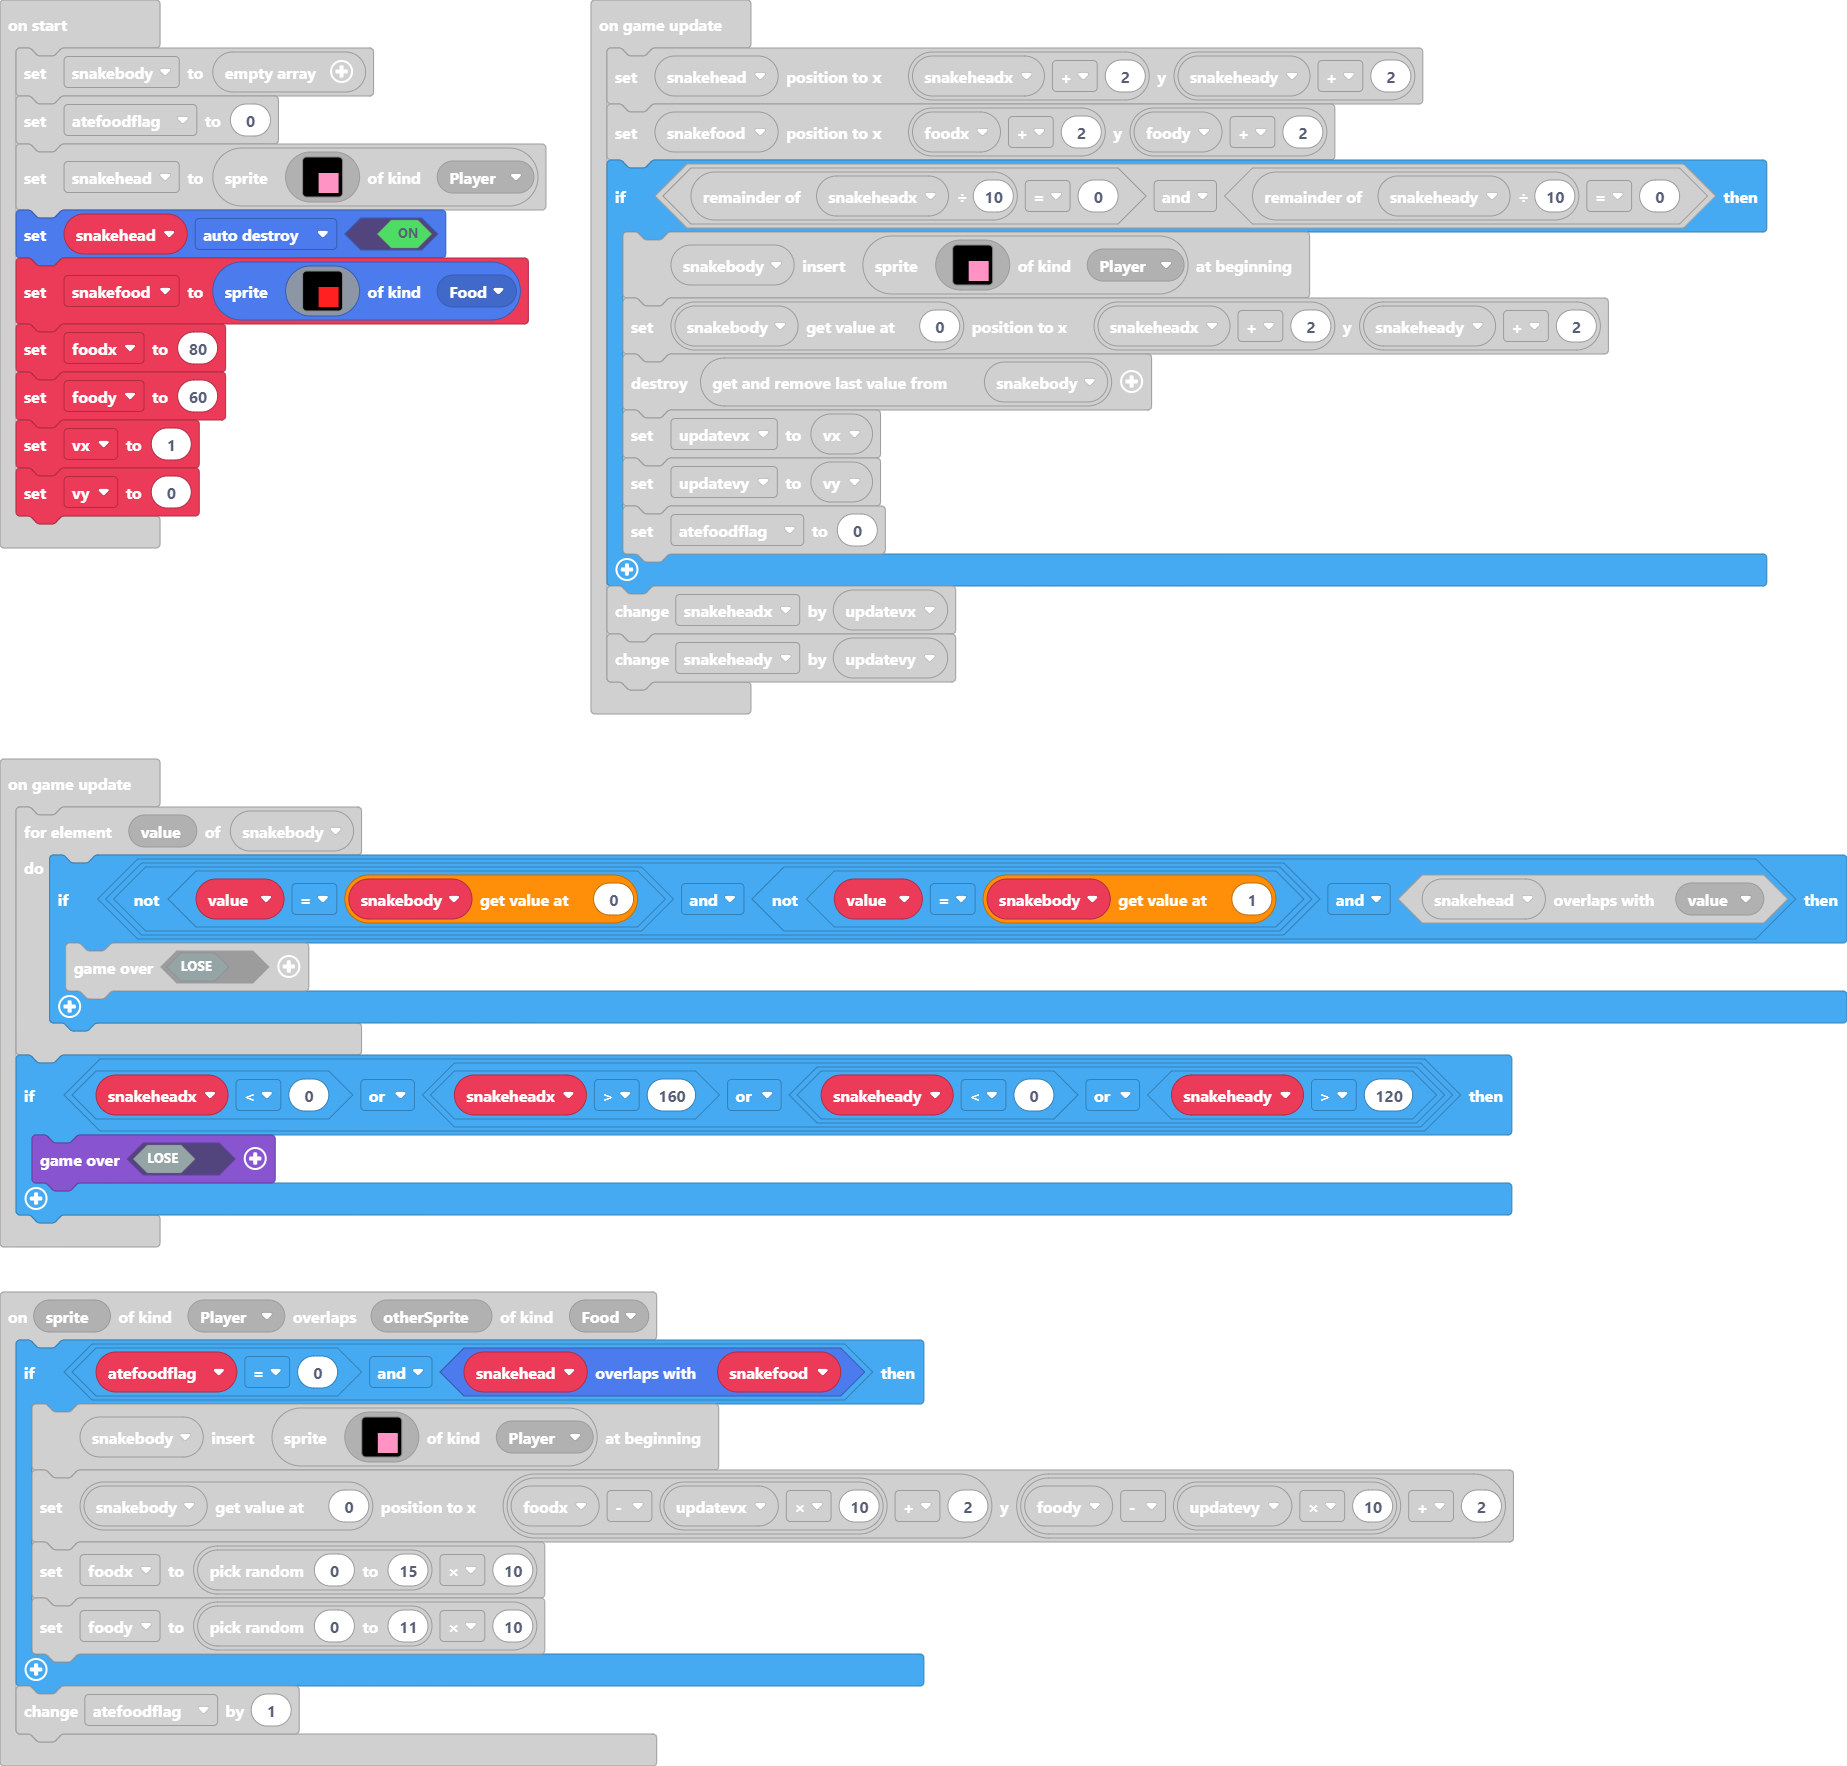
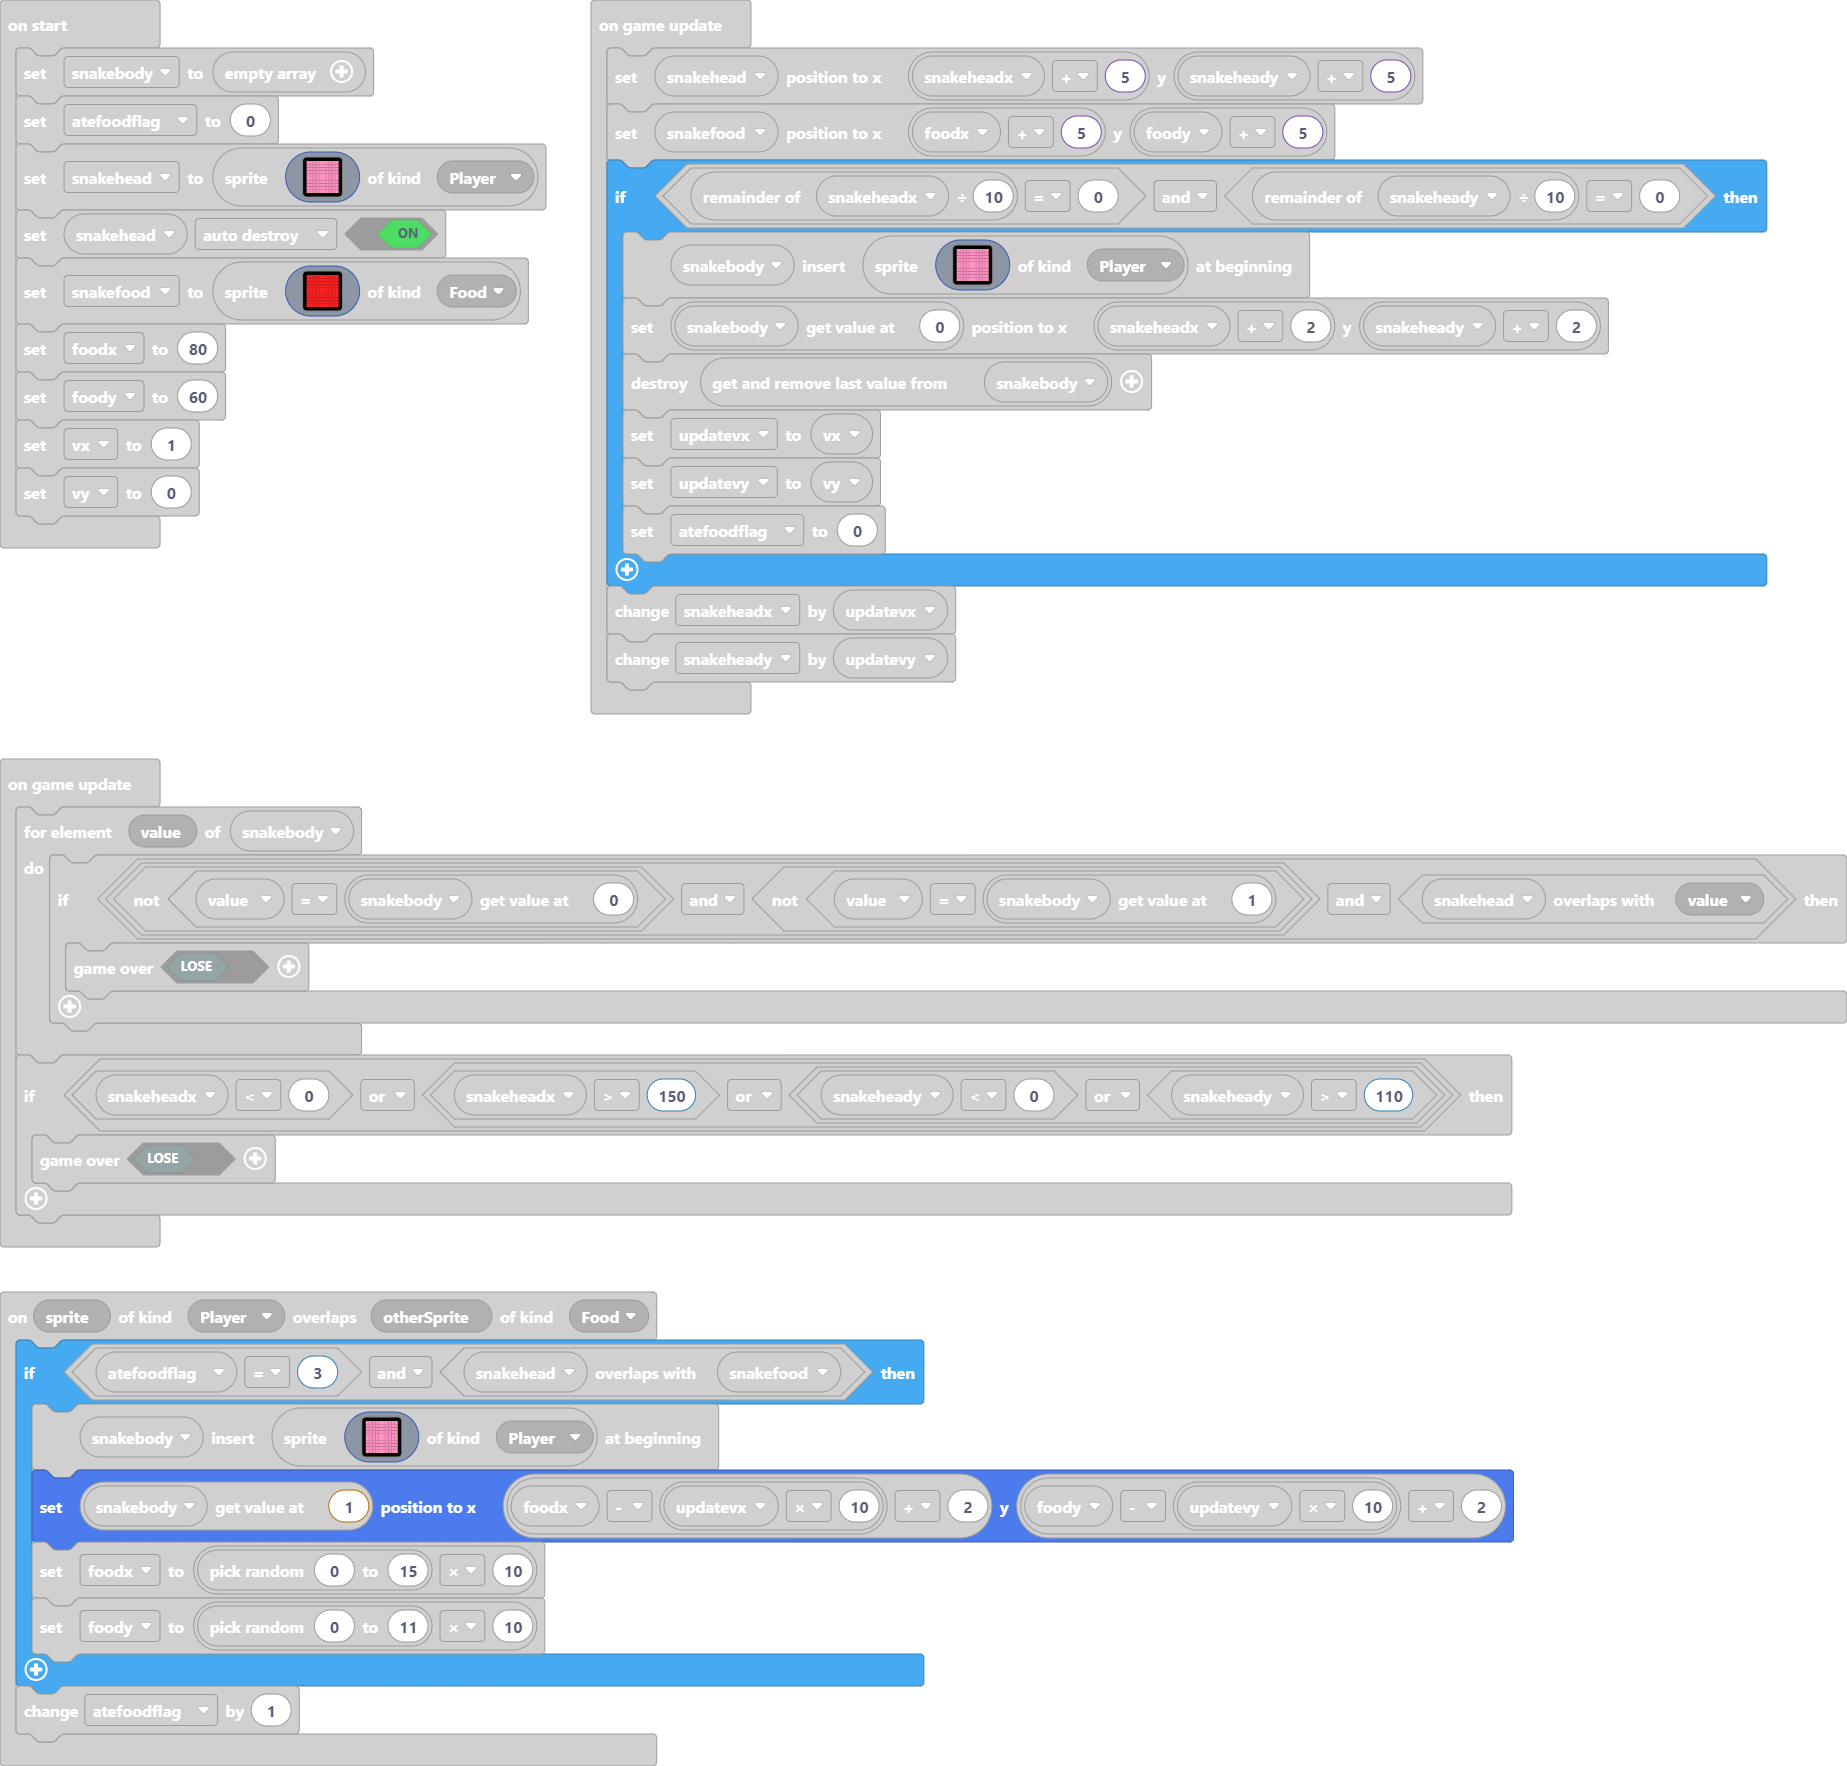
changed character size, fixed the grid to accommodate the character, cant eat

diff --git a/main.ts b/main.ts
@@ -15,26 +15,20 @@ controller.down.onEvent(ControllerButtonEvent.Pressed, function () {
     vy = 1
 })
 sprites.onOverlap(SpriteKind.Player, SpriteKind.Food, function (sprite, otherSprite) {
-    if (atefoodflag == 0 && snakehead.overlapsWith(snakefood)) {
+    if (atefoodflag == 3 && snakehead.overlapsWith(snakefood)) {
         snakebody.unshift(sprites.create(img`
-            . . . . . . . . . . . . . . . . 
-            . . . . . . . . . . . . . . . . 
-            . . . . . . . . . . . . . . . . 
-            . . . . . . . . . . . . . . . . 
-            . . . . . . . . . . . . . . . . 
-            . . . . . . . . . . . . . . . . 
-            . . . . . . 3 3 3 3 3 3 3 3 3 3 
-            . . . . . . 3 3 3 3 3 3 3 3 3 3 
-            . . . . . . 3 3 3 3 3 3 3 3 3 3 
-            . . . . . . 3 3 3 3 3 3 3 3 3 3 
-            . . . . . . 3 3 3 3 3 3 3 3 3 3 
-            . . . . . . 3 3 3 3 3 3 3 3 3 3 
-            . . . . . . 3 3 3 3 3 3 3 3 3 3 
-            . . . . . . 3 3 3 3 3 3 3 3 3 3 
-            . . . . . . 3 3 3 3 3 3 3 3 3 3 
-            . . . . . . 3 3 3 3 3 3 3 3 3 3 
+            3 3 3 3 3 3 3 3 3 3 
+            3 3 3 3 3 3 3 3 3 3 
+            3 3 3 3 3 3 3 3 3 3 
+            3 3 3 3 3 3 3 3 3 3 
+            3 3 3 3 3 3 3 3 3 3 
+            3 3 3 3 3 3 3 3 3 3 
+            3 3 3 3 3 3 3 3 3 3 
+            3 3 3 3 3 3 3 3 3 3 
+            3 3 3 3 3 3 3 3 3 3 
+            3 3 3 3 3 3 3 3 3 3 
             `, SpriteKind.Player))
-        snakebody[0].setPosition(foodx - updatevx * 10 + 2, foody - updatevy * 10 + 2)
+        snakebody[1].setPosition(foodx - updatevx * 10 + 2, foody - updatevy * 10 + 2)
         foodx = randint(0, 15) * 10
         foody = randint(0, 11) * 10
     }
@@ -55,67 +49,49 @@ let snakebody: Sprite[] = []
 snakebody = []
 atefoodflag = 0
 snakehead = sprites.create(img`
-    . . . . . . . . . . . . . . . . 
-    . . . . . . . . . . . . . . . . 
-    . . . . . . . . . . . . . . . . 
-    . . . . . . . . . . . . . . . . 
-    . . . . . . . . . . . . . . . . 
-    . . . . . . . . . . . . . . . . 
-    . . . . . . 3 3 3 3 3 3 3 3 3 3 
-    . . . . . . 3 3 3 3 3 3 3 3 3 3 
-    . . . . . . 3 3 3 3 3 3 3 3 3 3 
-    . . . . . . 3 3 3 3 3 3 3 3 3 3 
-    . . . . . . 3 3 3 3 3 3 3 3 3 3 
-    . . . . . . 3 3 3 3 3 3 3 3 3 3 
-    . . . . . . 3 3 3 3 3 3 3 3 3 3 
-    . . . . . . 3 3 3 3 3 3 3 3 3 3 
-    . . . . . . 3 3 3 3 3 3 3 3 3 3 
-    . . . . . . 3 3 3 3 3 3 3 3 3 3 
+    3 3 3 3 3 3 3 3 3 3 
+    3 3 3 3 3 3 3 3 3 3 
+    3 3 3 3 3 3 3 3 3 3 
+    3 3 3 3 3 3 3 3 3 3 
+    3 3 3 3 3 3 3 3 3 3 
+    3 3 3 3 3 3 3 3 3 3 
+    3 3 3 3 3 3 3 3 3 3 
+    3 3 3 3 3 3 3 3 3 3 
+    3 3 3 3 3 3 3 3 3 3 
+    3 3 3 3 3 3 3 3 3 3 
     `, SpriteKind.Player)
 snakehead.setFlag(SpriteFlag.AutoDestroy, true)
 snakefood = sprites.create(img`
-    . . . . . . . . . . . . . . . . 
-    . . . . . . . . . . . . . . . . 
-    . . . . . . . . . . . . . . . . 
-    . . . . . . . . . . . . . . . . 
-    . . . . . . . . . . . . . . . . 
-    . . . . . . . . . . . . . . . . 
-    . . . . . . 2 2 2 2 2 2 2 2 2 2 
-    . . . . . . 2 2 2 2 2 2 2 2 2 2 
-    . . . . . . 2 2 2 2 2 2 2 2 2 2 
-    . . . . . . 2 2 2 2 2 2 2 2 2 2 
-    . . . . . . 2 2 2 2 2 2 2 2 2 2 
-    . . . . . . 2 2 2 2 2 2 2 2 2 2 
-    . . . . . . 2 2 2 2 2 2 2 2 2 2 
-    . . . . . . 2 2 2 2 2 2 2 2 2 2 
-    . . . . . . 2 2 2 2 2 2 2 2 2 2 
-    . . . . . . 2 2 2 2 2 2 2 2 2 2 
+    2 2 2 2 2 2 2 2 2 2 
+    2 2 2 2 2 2 2 2 2 2 
+    2 2 2 2 2 2 2 2 2 2 
+    2 2 2 2 2 2 2 2 2 2 
+    2 2 2 2 2 2 2 2 2 2 
+    2 2 2 2 2 2 2 2 2 2 
+    2 2 2 2 2 2 2 2 2 2 
+    2 2 2 2 2 2 2 2 2 2 
+    2 2 2 2 2 2 2 2 2 2 
+    2 2 2 2 2 2 2 2 2 2 
     `, SpriteKind.Food)
 foodx = 80
 foody = 60
 vx = 1
 vy = 0
 game.onUpdate(function () {
-    snakehead.setPosition(snakeheadx + 2, snakeheady + 2)
-    snakefood.setPosition(foodx + 2, foody + 2)
+    snakehead.setPosition(snakeheadx + 5, snakeheady + 5)
+    snakefood.setPosition(foodx + 5, foody + 5)
     if (snakeheadx % 10 == 0 && snakeheady % 10 == 0) {
         snakebody.unshift(sprites.create(img`
-            . . . . . . . . . . . . . . . . 
-            . . . . . . . . . . . . . . . . 
-            . . . . . . . . . . . . . . . . 
-            . . . . . . . . . . . . . . . . 
-            . . . . . . . . . . . . . . . . 
-            . . . . . . . . . . . . . . . . 
-            . . . . . . 3 3 3 3 3 3 3 3 3 3 
-            . . . . . . 3 3 3 3 3 3 3 3 3 3 
-            . . . . . . 3 3 3 3 3 3 3 3 3 3 
-            . . . . . . 3 3 3 3 3 3 3 3 3 3 
-            . . . . . . 3 3 3 3 3 3 3 3 3 3 
-            . . . . . . 3 3 3 3 3 3 3 3 3 3 
-            . . . . . . 3 3 3 3 3 3 3 3 3 3 
-            . . . . . . 3 3 3 3 3 3 3 3 3 3 
-            . . . . . . 3 3 3 3 3 3 3 3 3 3 
-            . . . . . . 3 3 3 3 3 3 3 3 3 3 
+            3 3 3 3 3 3 3 3 3 3 
+            3 3 3 3 3 3 3 3 3 3 
+            3 3 3 3 3 3 3 3 3 3 
+            3 3 3 3 3 3 3 3 3 3 
+            3 3 3 3 3 3 3 3 3 3 
+            3 3 3 3 3 3 3 3 3 3 
+            3 3 3 3 3 3 3 3 3 3 
+            3 3 3 3 3 3 3 3 3 3 
+            3 3 3 3 3 3 3 3 3 3 
+            3 3 3 3 3 3 3 3 3 3 
             `, SpriteKind.Player))
         snakebody[0].setPosition(snakeheadx + 2, snakeheady + 2)
         snakebody.pop().destroy()
@@ -132,7 +108,7 @@ game.onUpdate(function () {
             game.over(false)
         }
     }
-    if (snakeheadx < 0 || (snakeheadx > 160 || (snakeheady < 0 || snakeheady > 120))) {
+    if (snakeheadx < 0 || (snakeheadx > 150 || (snakeheady < 0 || snakeheady > 110))) {
         game.over(false)
     }
 })
